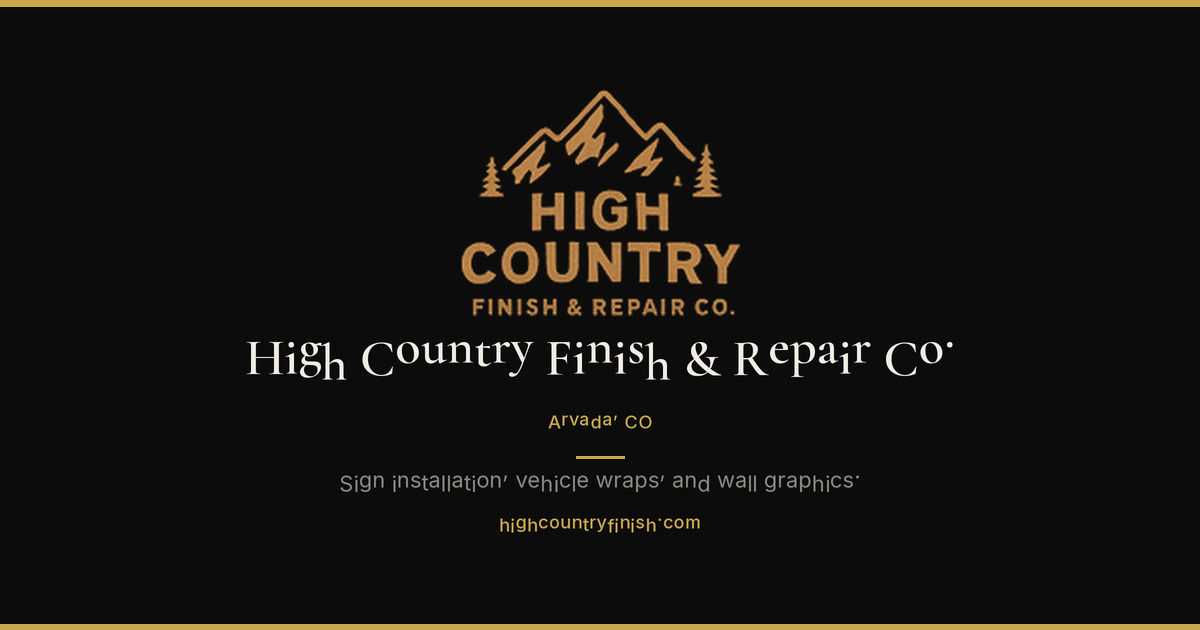
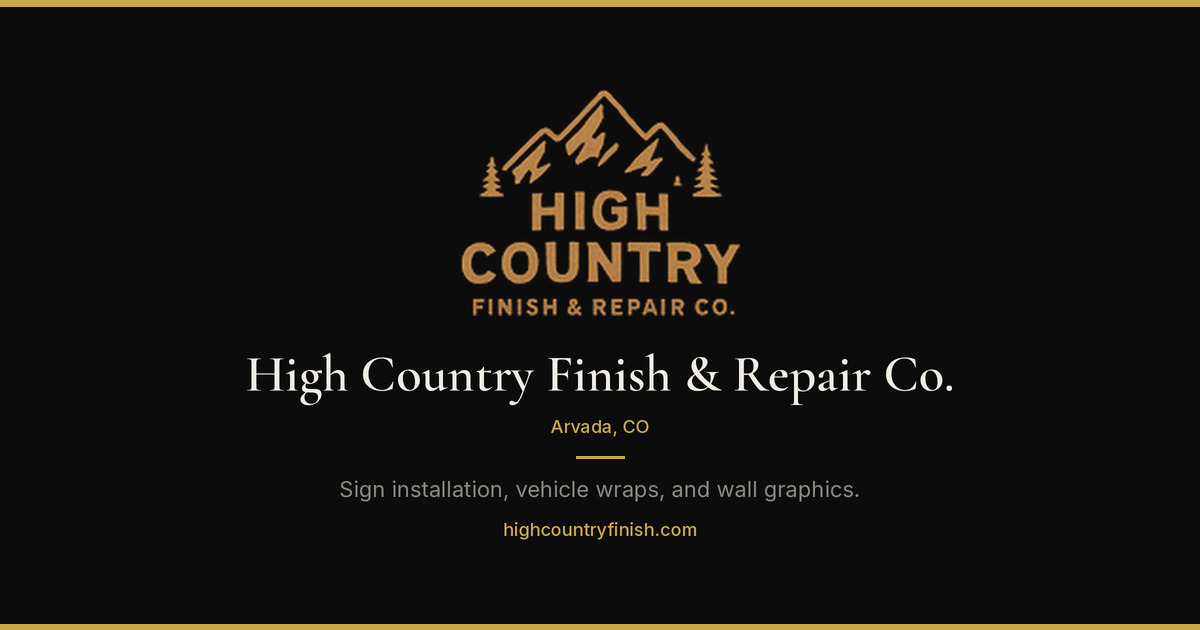
Draw each share-image line on one baseline.
Per-glyph placement was aligning every character to its own bounding-box top, so commas and periods sat up like apostrophes and descenders left the line. Each line is now a single draw.text call with anchor ms.

Changed region(s): [[0.185, 0.5429, 0.8017, 0.6333], [0.2775, 0.754, 0.7092, 0.8746], [0.4625, 0.6635, 0.555, 0.6937]]

diff --git a/scripts/render-og-home.py b/scripts/render-og-home.py
@@ -58,12 +58,8 @@ def load_font(filename, size):
     return ImageFont.truetype(str(FONT_DIR / filename), size)
 
 
-def text_width(font, text, tracking=0):
-    if not text:
-        return 0
-    if tracking == 0:
-        return font.getlength(text)
-    return sum(font.getlength(ch) for ch in text) + tracking * (len(text) - 1)
+def text_width(font, text):
+    return font.getlength(text)
 
 
 def text_height(font):
@@ -71,13 +67,11 @@ def text_height(font):
     return ascent + descent
 
 
-def draw_centered(draw, text, font, y, fill, canvas_w, tracking=0):
-    widths = [font.getlength(ch) for ch in text]
-    total = sum(widths) + tracking * (len(text) - 1)
-    x = (canvas_w - total) / 2
-    for ch, advance in zip(text, widths):
-        draw.text((x, y), ch, font=font, fill=fill, anchor="lt")
-        x += advance + tracking
+def draw_centered(draw, text, font, top, fill, canvas_w):
+    """Draw the whole line on one baseline. top is the top of the em box."""
+    ascent, _descent = font.getmetrics()
+    baseline = top + ascent
+    draw.text((canvas_w / 2, baseline), text, font=font, fill=fill, anchor="ms")
 
 
 def key_logo(logo):
@@ -155,20 +149,20 @@ def render():
     y += logo_h + gap_after_logo
 
     margin = 48 * SCALE
-    for label, font, tracking in (
-        (BUSINESS_NAME, name_font, 0),
-        (LOCATION, location_font, 0.6 * SCALE),
-        (DESCRIPTION, body_font, 0),
-        (URL, url_font, 0.4 * SCALE),
+    for label, font in (
+        (BUSINESS_NAME, name_font),
+        (LOCATION, location_font),
+        (DESCRIPTION, body_font),
+        (URL, url_font),
     ):
-        width = text_width(font, label, tracking)
+        width = text_width(font, label)
         if width > canvas_w - margin * 2:
             raise SystemExit(f"{label!r} is {width:.0f}px wide; canvas allows {canvas_w - margin * 2:.0f}px")
 
     draw_centered(draw, BUSINESS_NAME, name_font, y, TEXT, canvas_w)
     y += name_h + gap_after_name
 
-    draw_centered(draw, LOCATION, location_font, y, GOLD, canvas_w, tracking=0.6 * SCALE)
+    draw_centered(draw, LOCATION, location_font, y, GOLD, canvas_w)
     y += location_h + gap_after_location
 
     rule_y = y
@@ -177,7 +171,7 @@ def render():
     draw_centered(draw, DESCRIPTION, body_font, y, MUTED, canvas_w)
     y += body_h + gap_after_body
 
-    draw_centered(draw, URL, url_font, y, GOLD, canvas_w, tracking=0.4 * SCALE)
+    draw_centered(draw, URL, url_font, y, GOLD, canvas_w)
 
     final = image.resize((WIDTH, HEIGHT), Image.Resampling.LANCZOS)
     final_draw = ImageDraw.Draw(final)
